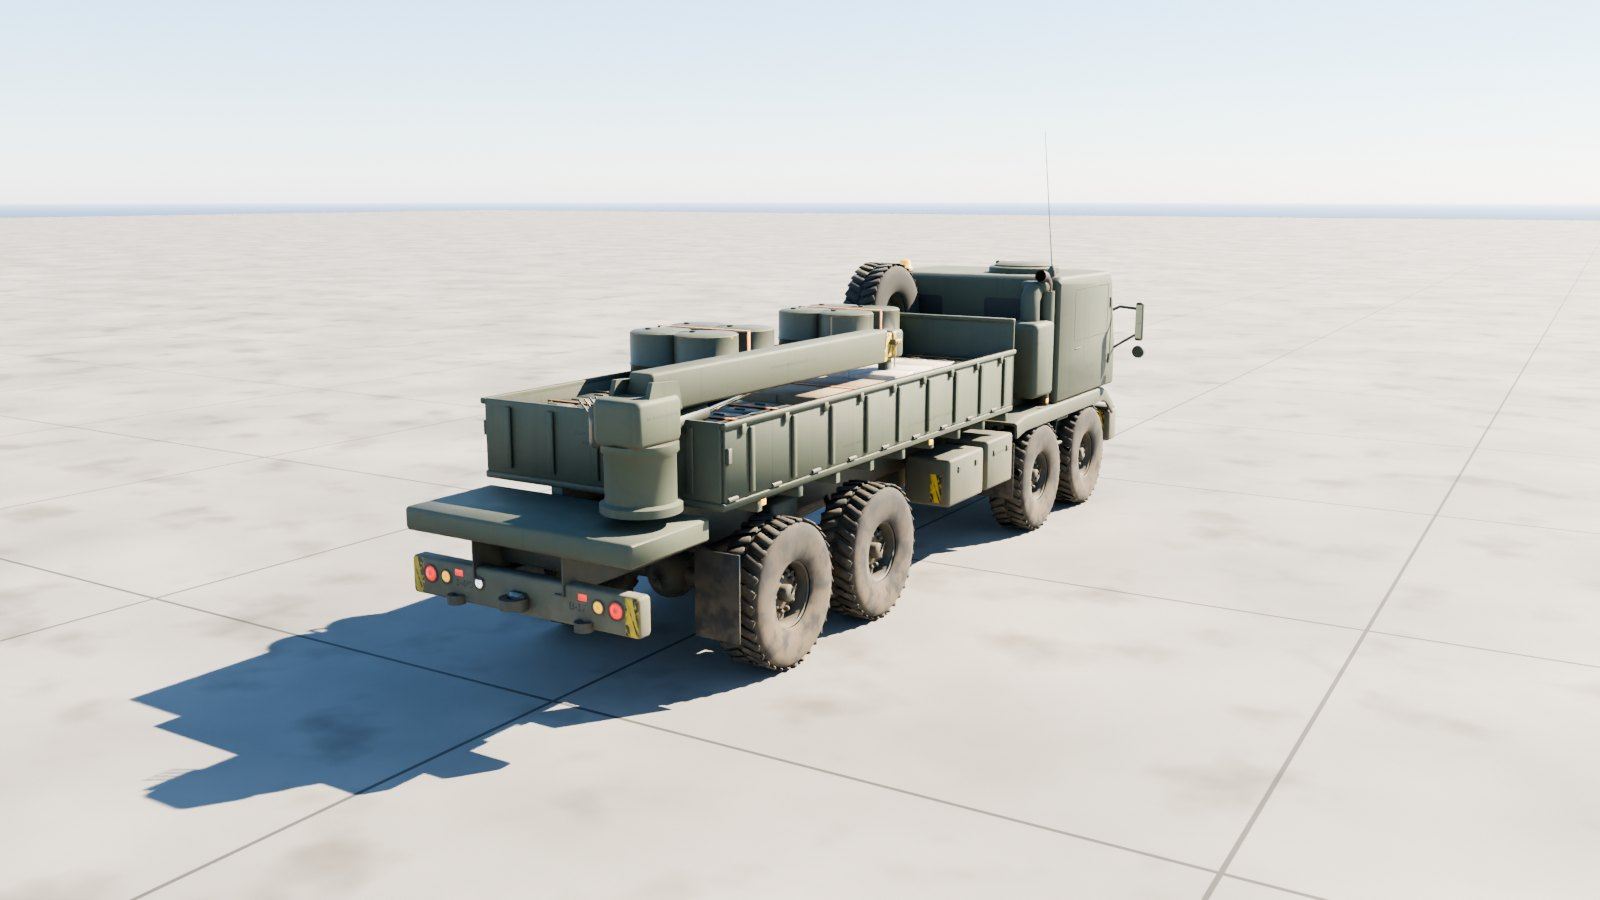
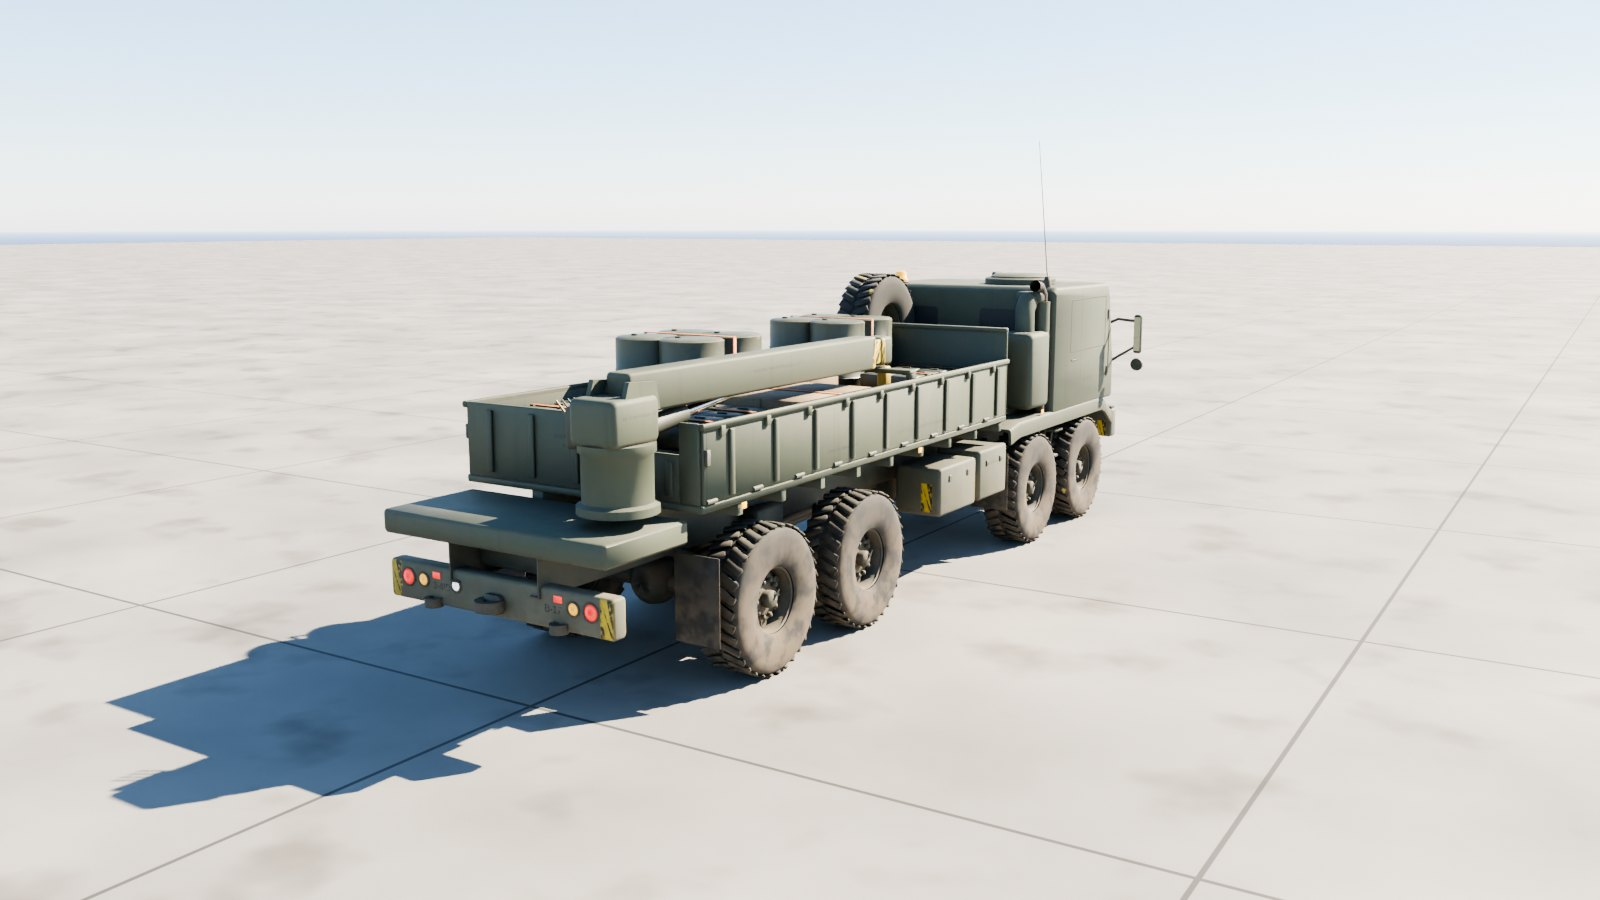
The M977A4 cargo truck's renders and README, with its approach angle in the 1:1 table
Claude-Session: https://claude.ai/code/session_011yj7L8L1UpaZ79XnLpfs4s

diff --git a/hemtt-m977/README.md b/hemtt-m977/README.md
@@ -6,25 +6,25 @@ A game-ready US Army HEMTT M977A4: the 8×8 Heavy Expanded Mobility Tactical Tru
 
 | Side | Rear and crane |
 | --- | --- |
-| ![Side view](docs/side.jpg) | ![Rear three-quarter view with the crane](docs/rear.jpg) |
+| ![Side view](docs/side.jpg) | ![Rear three-quarter view with the crane stowed](docs/rear.jpg) |
 | **Cab** | **Running gear** |
-| ![Cab, grille, bumper and winch](docs/cab.jpg) | ![16.00R20 XZL tyres and the front axles](docs/wheels.jpg) |
-
-![The crane swung out, lifting a pallet of ammunition off the bed](docs/crane.jpg)
+| ![Cab, grille, bumper and winch, the door open](docs/cab.jpg) | ![16.00R20 XZL tyres and the front axles](docs/wheels.jpg) |
+| **Crane** |
+| ![The crane slewed out over the side, its boom raised and run out](docs/crane.jpg) |
 
 ## Files
 
 | File | What it is |
 | --- | --- |
-| `hemtt_m977a4.glb` | **The truck.** Textured, with every wheel, the steering, the doors, the crane and each pallet load its own node. 17.9 MB. |
-| `hemtt_m977a4_web.glb` | A lighter copy with half-size WebP textures, for browsers and phones. 8.7 MB. |
-| `hemtt_viewer.html` | Opens the truck in your browser with a double-click: orbit round it, open the doors, drive the wheels, work the crane, unload the cargo. |
+| `hemtt_m977a4.glb` | **The truck.** Textured, with every wheel, the steering, the doors, the crane and each pallet load its own node. 17.7 MB. |
+| `hemtt_m977a4_web.glb` | A lighter copy with half-size WebP textures, for browsers and phones. 8.1 MB. |
+| `hemtt_m977a4_viewer.html` | Opens the truck in your browser with a double-click: orbit round it, drive and steer it, open the doors, slew and raise the crane (it lifts itself over the load), run out its boom and let down the hook, and unload the cargo. 11.4 MB; not checked in, `node modelkit/finish.mjs` makes it. |
 | `measurements.json` | The finished model measured against the published dimensions. |
 | `build.py`, `truck.py`, `markings.py`, `m977.py` | The Blender build (it uses the shared `../modelkit`). |
 
-## Scale: 1:1 with the real truck
+## Scale: 1:1
 
-Built to Oshkosh's published M977A4 figures; `build.py` measures the finished geometry against them on every build:
+Built to Oshkosh's published M977A4 figures; `build.py` measures the finished geometry against them on every build, the approach angle included:
 
 | Dimension | Published (m) | Model (m) |
 | --- | ---: | ---: |
@@ -35,28 +35,31 @@ Built to Oshkosh's published M977A4 figures; `build.py` measures the finished ge
 | Track | 2.007 | 2.007 |
 | Tyre diameter (16.00R20) | 1.240 | 1.238 |
 | Cargo body length (18 ft) | 5.486 | 5.486 |
+| Approach angle | 41.0° | 40.8° |
 
-All within 3 mm. The tyres stand on the ground to within 1.2 mm.
+All within 4 mm, the angles within 0.2°.
 
-- **Units and axes:** metres, glTF axes. +Y is up, +Z points to the front, and +X is the driver's left.
-- **Origin:** on the ground, on the centreline, midway between the front and rear axle pairs. The tyres stand on y = 0.
+- **Units and axes:** metres, glTF axes. +Y is up, +Z points to the front, and +X is the left.
+- **Origin:** on the ground, on the centreline, midway between the front and rear axle pairs.
 
 ## Moving parts
 
-Each is its own node, pivoted where the real part turns, and its glTF extras say how it moves (`drive`, `axis`, `limits`):
+Each is its own node, pivoted where the real part turns. Its glTF extras say how it moves: `control` (wheel, steer, track, hinge, traverse, elevate, cargo), `axis`, `limits`, and `drive` in words.
+
+The gun also carries `limits_by_traverse`: its lowest and highest elevation every `traverse_step` (5) degrees of the turret's traverse, measured against the hull, so a game can lift it over the deck and whatever else stands in its way instead of letting it sink through. The viewer clamps to it.
 
 | Node | Moves |
 | --- | --- |
 | `Wheel_{1-4}_{Left,Right}` | spin about local X; + rolls forward (radius 0.62 m) |
-| `Steer_{1,2}_{Left,Right}` | steer about local Y; + turns left. Axle 1 up to ±0.62 rad, axle 2 up to ±0.42 rad. The wheels sit inside these nodes. |
-| `Door_Left`, `Door_Right` | swing about `axis` on the front hinge; + opens (up to 1.4 rad) |
-| `Crane` | slews about local Y |
-| `Crane_Boom` | luffs about local X; − raises it (to −1.3 rad) |
-| `Crane_Boom_Extension` | telescopes along local +Z, up to 2.3 m |
-| `Crane_Hook` | hangs from the boom tip; lower it along local −Y |
-| `Cargo_Pallet_1` … `_8` | the resources, one pallet load each: drums of fuel, ammunition cans, crates and rations |
+| `Steer_{1,2}_{Left,Right}` | steer about local Y; + turns left. Full lock is the inner wheels' for the published 100 ft turning circle: 27° on the first axle, 21° on the second. The wheels sit inside these nodes. |
+| `Door_Left`, `Door_Right` | swing about `axis` on hinges on their outer skins; + opens (to 80°, group `Cab doors`) |
+| `Crane` | slews about local Y, all the way round (`control` traverse) |
+| `Crane_Boom` | luffs about its `axis`; + raises it, to 74° (`control` elevate). Its `limits_by_traverse` say how high it must be to slew over the load. |
+| `Crane_Boom_Extension` | telescopes along local +Z, up to 2.3 m (group `Crane reach`) |
+| `Crane_Hook` | lets down on its cable, up to 3 m, straight down whatever the boom does (`gravity`; group `Crane reach`) |
+| `Cargo_Pallet_1` … `_8` | the resources, one pallet load each: drums of fuel, ammunition cans, crates and rations (`control` cargo) |
 | `Spare_Tire` | on its carrier behind the cab |
-| `Light_*` | head, turn, tail, reverse, clearance lights and the amber beacon. Their lens materials `Light_White`, `Light_Amber` and `Light_Red` are emissive, so scale the emission to switch them. |
+| `Light_*` | head, turn, tail, reverse, clearance lights and the amber beacon; their lens materials `Light_White`, `Light_Amber` and `Light_Red` are emissive, so scale the emission to switch them |
 
 ## Look
 
@@ -64,7 +67,6 @@ Each is its own node, pivoted where the real part turns, and its glTF extras say
 - **Stencils:** a black registration number, the CTIS tyre pressures, the weight class, JP-8 and NO SMOKING, the crane's load chart and DANGER, and bumper codes.
 - **Hazard stripes:** yellow and black on both bumpers and the crane boom.
 - **Weathering:** mud thrown up by every wheel, dust settling low down and on top, exhaust soot round the stack, grime in the corners and worn edges.
-- **Textures:** the look is built procedurally in Blender, then baked into standard PBR textures:
 
 | Texture set | Size | Covers |
 | --- | --- | --- |
@@ -73,29 +75,31 @@ Each is its own node, pivoted where the real part turns, and its glTF extras say
 | `HEMTT_Chassis` | 2048² | Frame, axles and springs, tyres, exhaust, steel |
 | `HEMTT_Cargo` | 2048² | Pallets, drums, ammunition cans, crates, straps, ration cases |
 
-Each set has a base colour, an occlusion-roughness-metallic map and a normal map. Glass, mirrors and light lenses use plain material values.
+Each set has a base colour, an occlusion-roughness-metallic map and a normal map (MikkTSpace tangents included). Glass, optics and light lenses use plain material values.
 
 ## Performance
 
 | File | Triangles | Draw calls | Nodes | Textures | Texture memory on the GPU |
 | --- | ---: | ---: | ---: | --- | ---: |
-| `hemtt_m977a4.glb` | 124,968 | 124 | 113 | 6 at 4096², 6 at 2048² | about 640 MB |
-| `hemtt_m977a4_web.glb` | 124,968 | 124 | 113 | 6 at 2048², 6 at 1024² | about 160 MB |
+| `hemtt_m977a4.glb` | 126,108 | 125 | 112 | 6 at 4096², 6 at 2048² | about 640 MB |
+| `hemtt_m977a4_web.glb` | 126,108 | 125 | 112 | 12 at 1024² | about 64 MB |
 
-Texture memory assumes uncompressed RGBA with mipmaps; GPU texture compression (KTX2/Basis, BCn or ASTC) cuts it by four to eight times. The normal maps carry MikkTSpace tangents, the space they were baked in.
+Texture memory assumes uncompressed RGBA with mipmaps; GPU texture compression (KTX2/Basis, BCn or ASTC) cuts it by four to eight times.
 
 ## Rebuilding
 
 ```sh
-pip install bpy==5.0.1 pillow                 # once, with Python 3.11
-python3.11 hemtt-m977/build.py --glb hemtt-m977/hemtt_m977a4.glb --textures 4096
-python3.11 hemtt-m977/build.py --preview out --lookdev   # quick look at the paint, without baking
+pip install bpy==5.0.1 pillow                     # once, with Python 3.11
+(cd apache-cockpit && npm install)                # once: glTF-Transform, sharp, esbuild, three
+python3.11 hemtt-m977/build.py --glb out/hemtt_m977a4.glb --textures 4096   # build, paint, bake, export
+node modelkit/finish.mjs out/hemtt_m977a4.glb hemtt-m977 hemtt_m977a4            # game and web files, the viewer
+python3.11 modelkit/beauty.py hemtt-m977 hemtt-m977/hemtt_m977a4.glb out/docs     # the renders
+python3.11 hemtt-m977/build.py --preview out --lookdev    # a quick look at the paint, without baking
 ```
 
 ## Accuracy
 
-The truck is modelled on the M977A4 from its published figures and general knowledge of the vehicle, not from manufacturer drawings.
-
-- **Published dimensions:** the overall length, width and height, wheelbase, track, tyre size and cargo body length match exactly.
+- **Published dimensions:** the overall length, width and height, wheelbase, track, tyre size, cargo body length, the 41° approach angle and the 100 ft turning circle (as the steering locks) all match.
+- **Departure angle:** Oshkosh quotes 45° for the HEMTT family; with the M977's published length, wheelbase and 18 ft body, the body's back end sits over 2 m behind the last axle, so the model's departure angle is about 22°.
 - **Estimated:** the spacing within each axle pair, the cab and body heights, and the layout behind the cab.
 - **Markings:** plausible but made up; the registration and unit codes aren't a real vehicle's.
